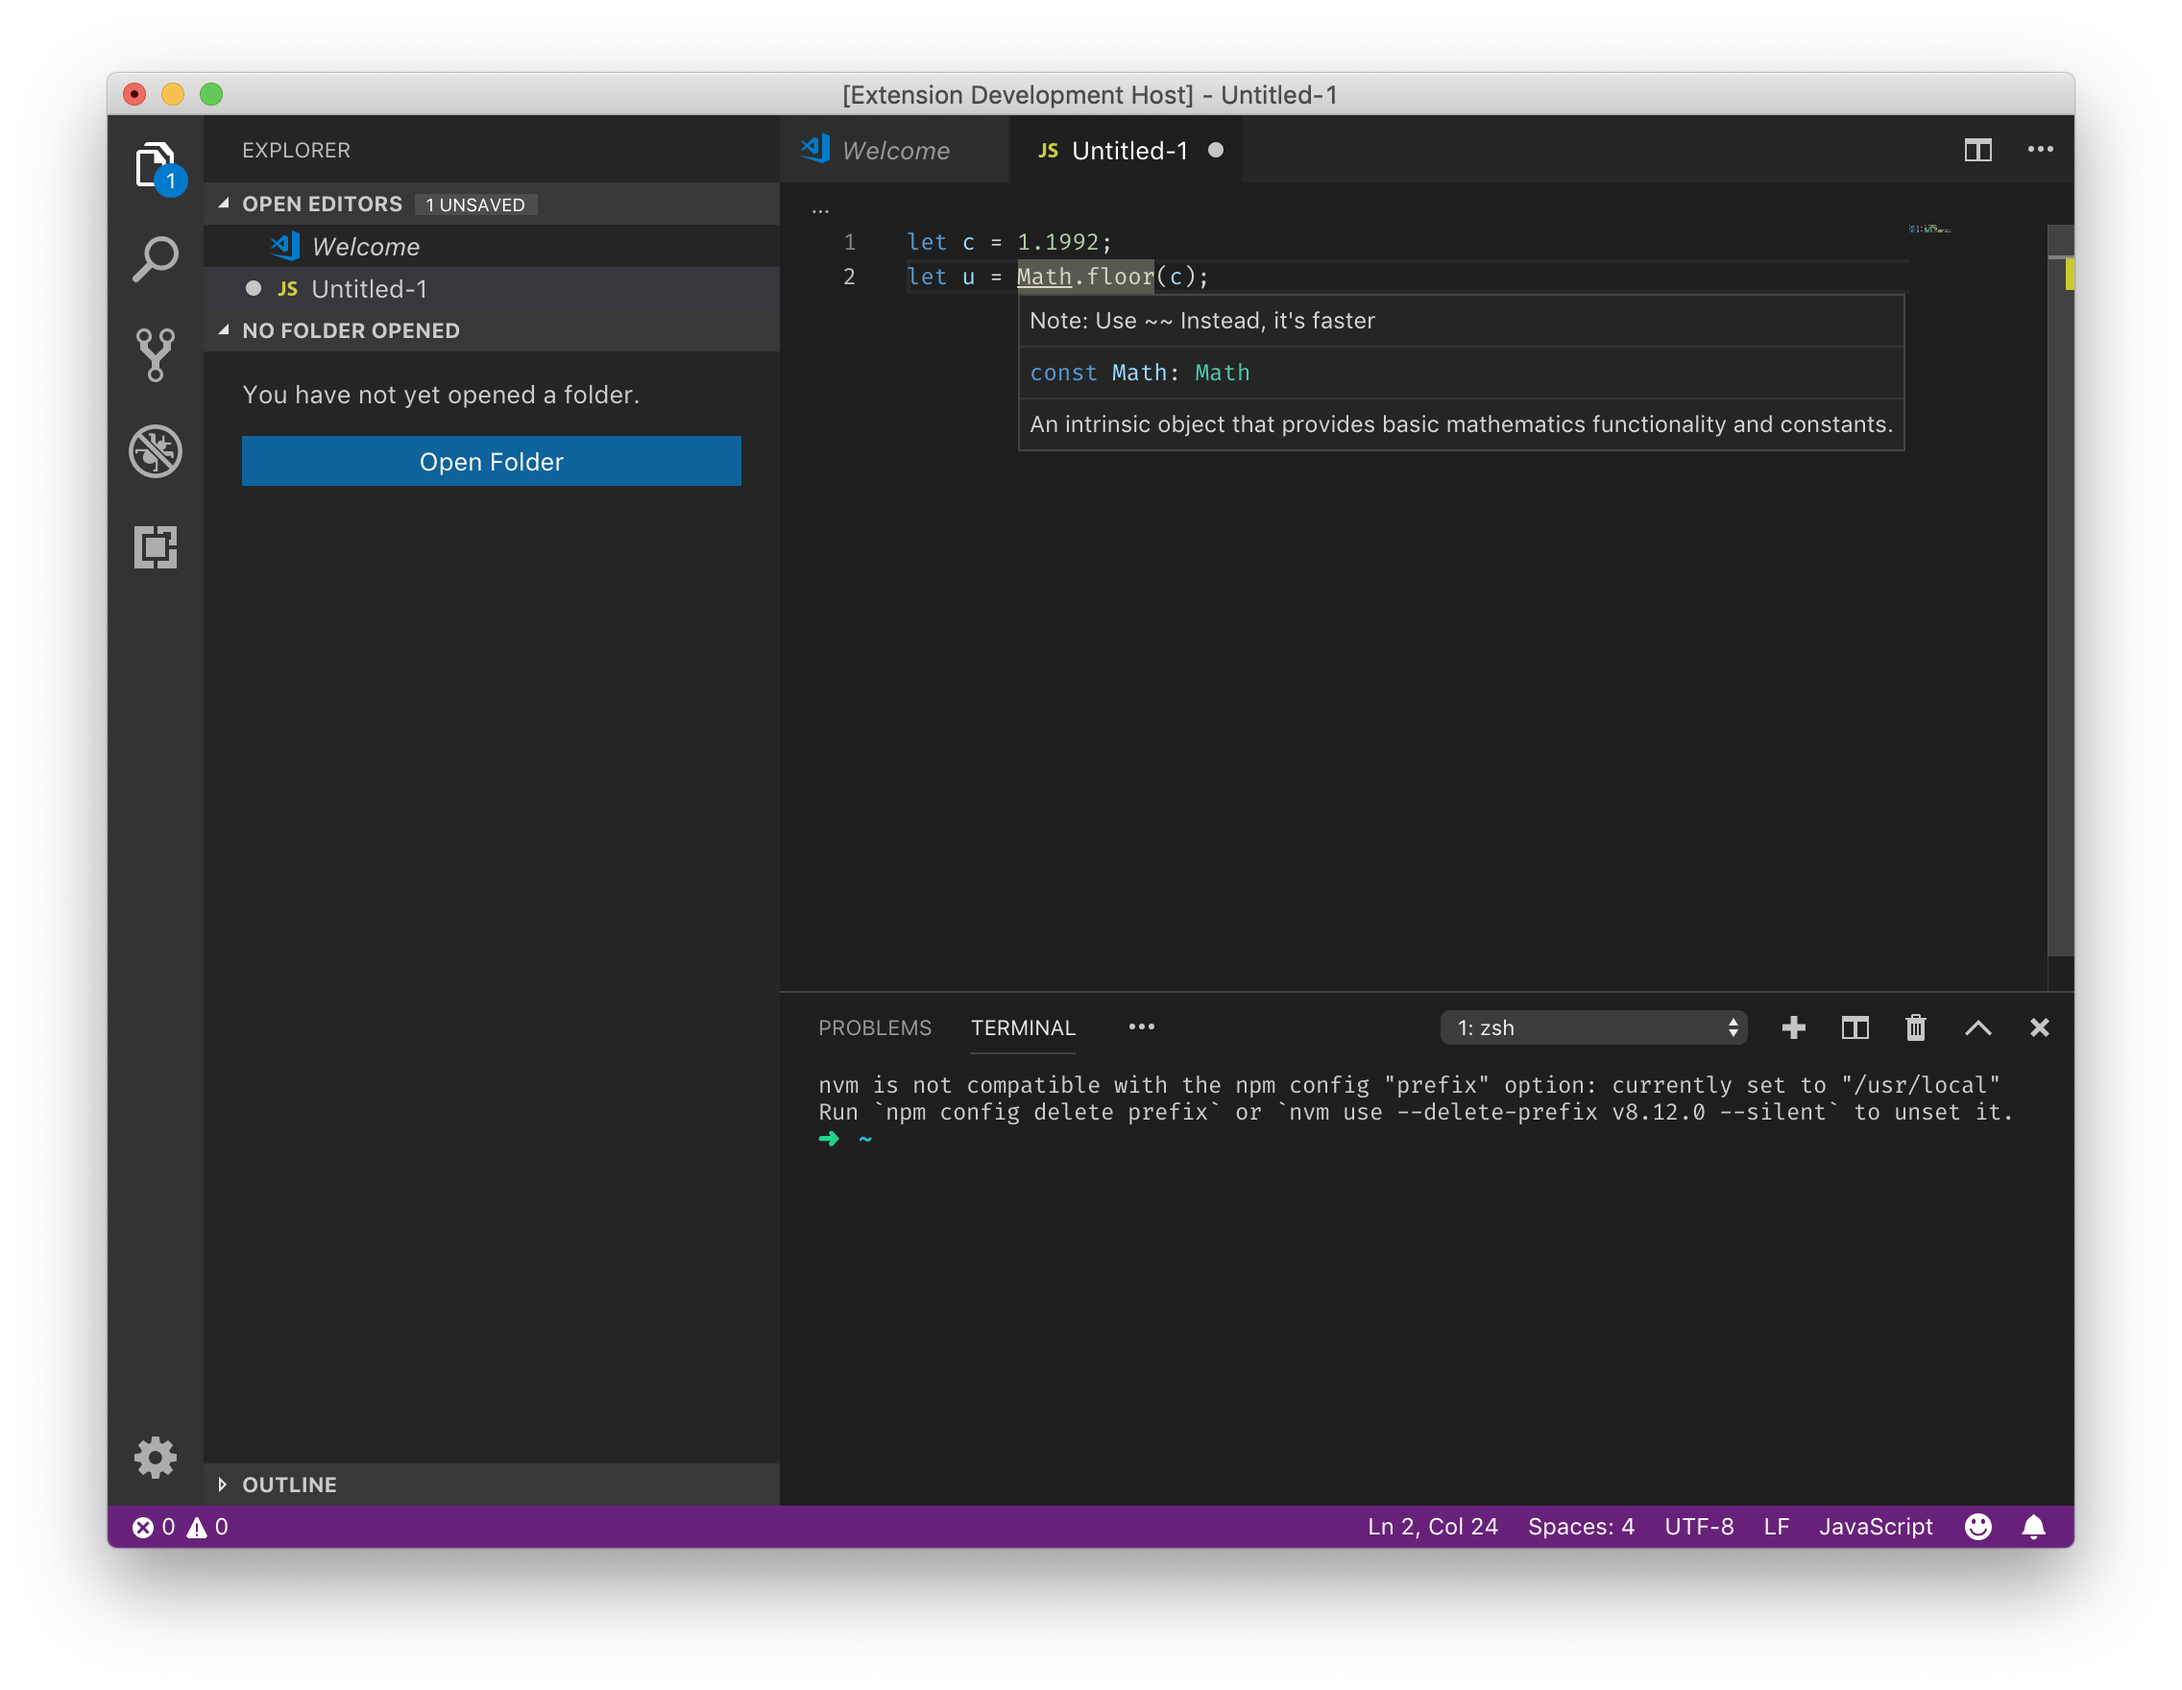
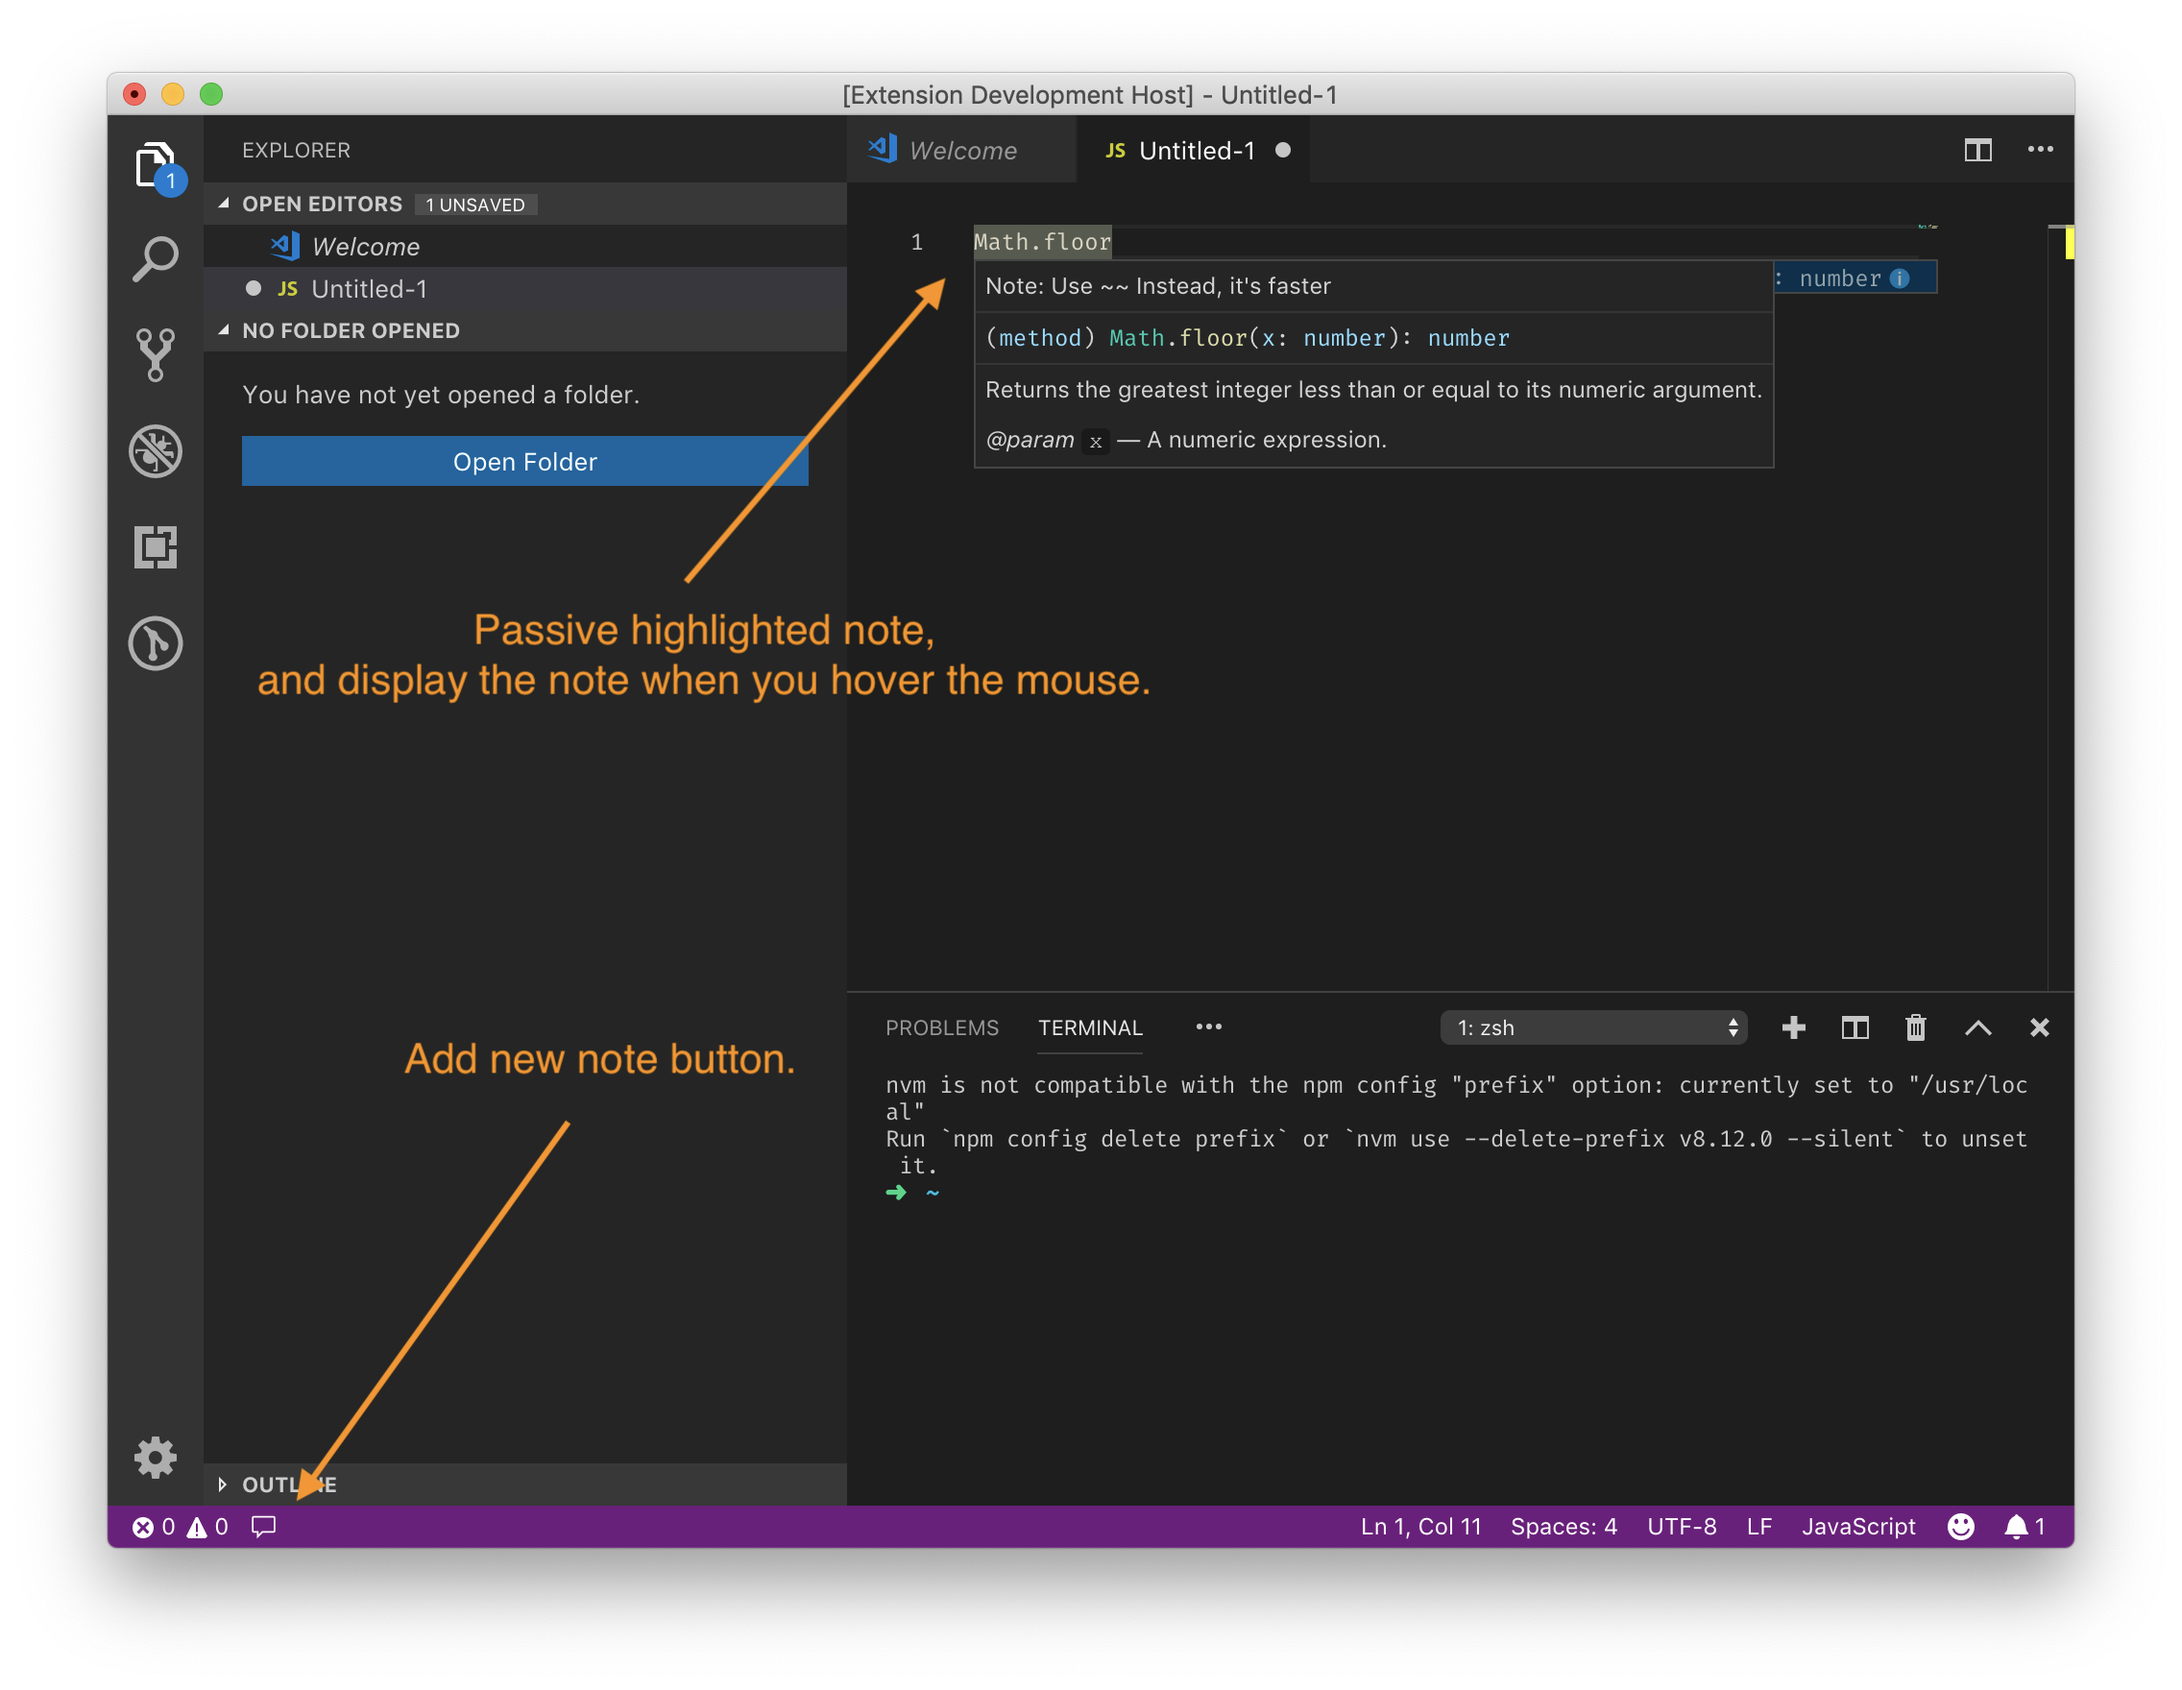
#2: Fixing the last changes on the code for 0.0.2 release

diff --git a/README.md b/README.md
@@ -8,9 +8,16 @@ Display a note for your code so you can remember of something about that specifi
 
 \!\[Code Note\]\(images/note-example.png\)
 
-## Release Notes
+\!\[Code Note remove button\]\(images/remove-example.png\)
 
-This is the first version of this code, so there's not too much feature yet, you can add a new note and see your notes
+## Release Notes
+This new version it's a little more enhanced, the new remove button was added, and the "add new" action was moved to the status bar.
+
+### 0.0.2
+Added:
+- New Icon on status bar
+- Enabled remove notes
+- Support for muliple languages
 
 ### 0.0.1
 First version, hope you guys engoy.
